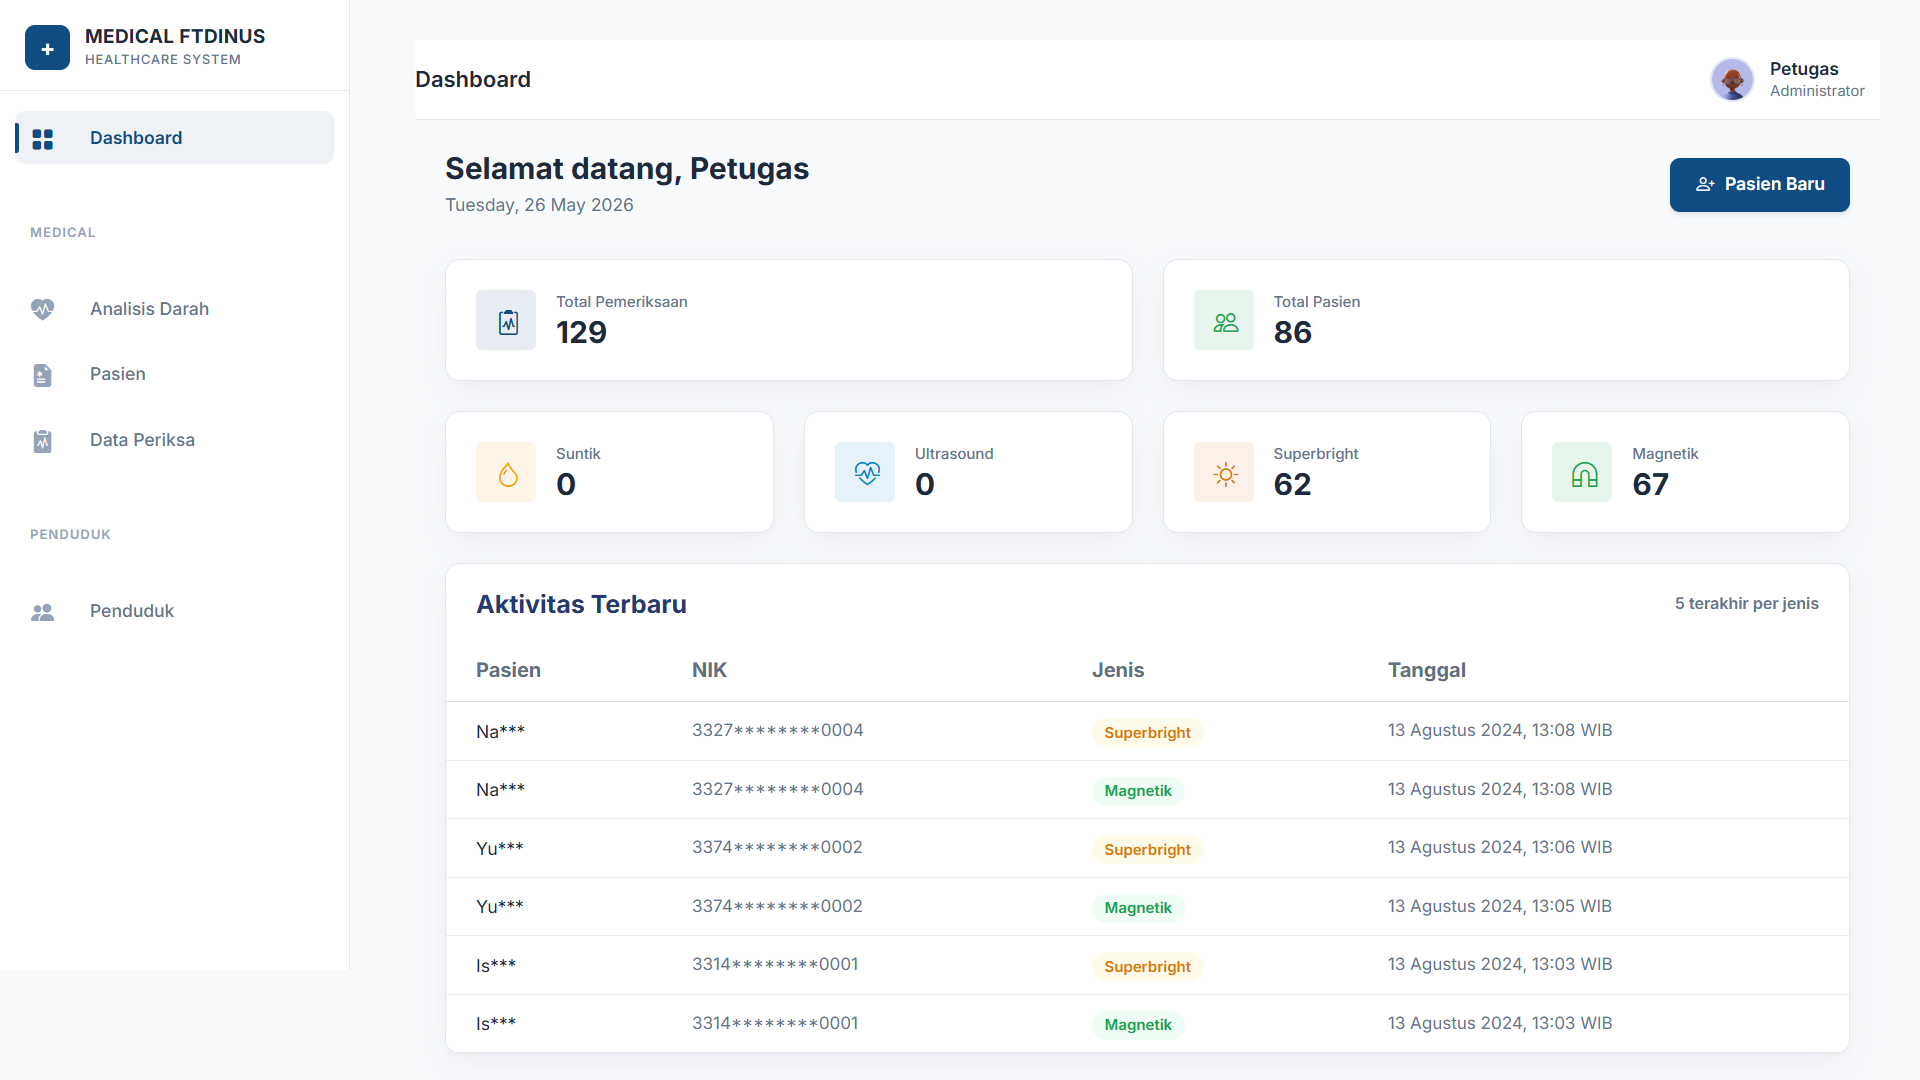
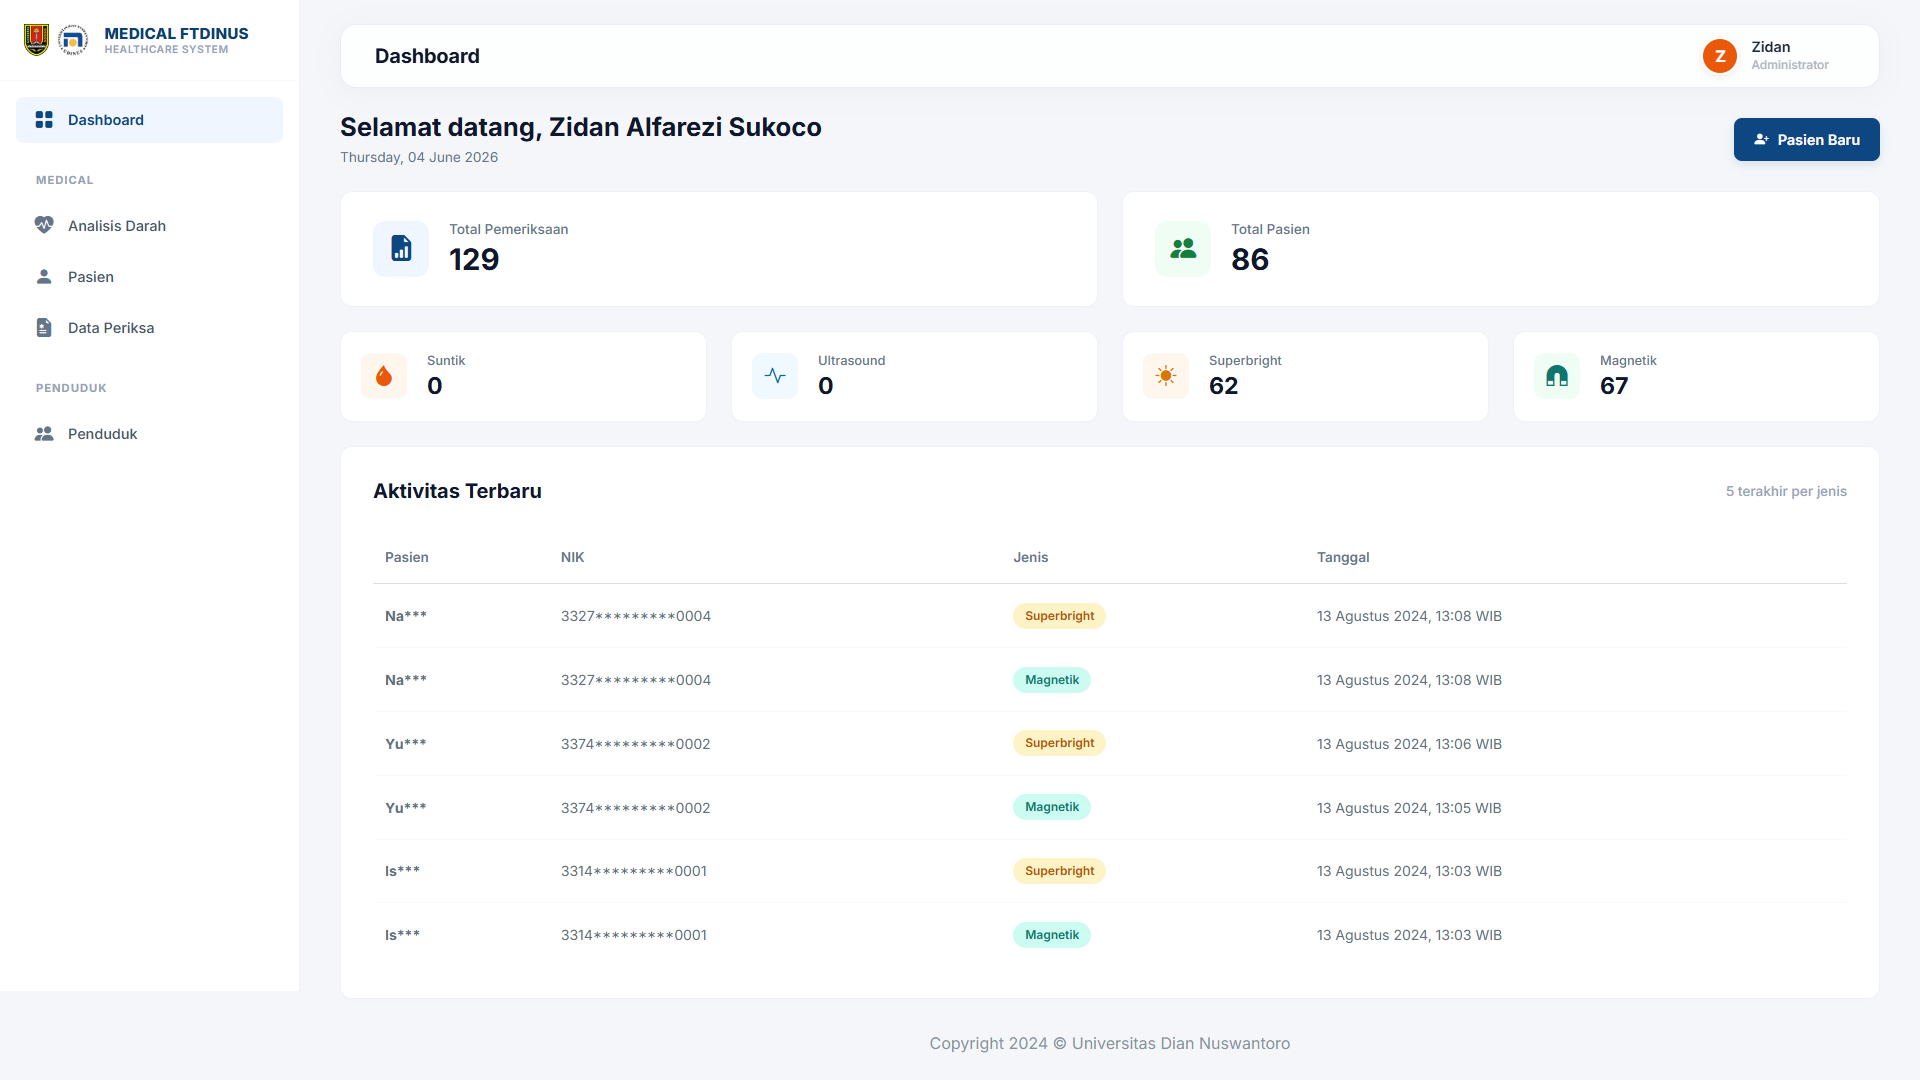
update portfolio

diff --git a/src/app/not-found.tsx b/src/app/not-found.tsx
@@ -12,11 +12,15 @@ export default function NotFound() {
             <div className="not-found">
                 <div className="not-found-card">
                     <div className="not-found-blob" aria-hidden="true" />
-                    <div className="not-found-blob secondary" aria-hidden="true" />
+                    <div
+                        className="not-found-blob secondary"
+                        aria-hidden="true"
+                    />
                     <div className="not-found-code">404</div>
                     <h1 className="not-found-title">Page not found</h1>
                     <p className="not-found-desc">
-                        The page you&apos;re looking for doesn&apos;t exist or has been moved.
+                        The page you&apos;re looking for doesn&apos;t exist or
+                        has been moved.
                     </p>
                     <Link href="/" className="not-found-btn">
                         <FontAwesomeIcon icon={faArrowLeft} />

diff --git a/src/lib/projects.ts b/src/lib/projects.ts
@@ -52,6 +52,7 @@ export const projects: Project[] = [
             '/assets/images/projects/project-medical-login.png',
             '/assets/images/projects/project-medical-dashboard.png',
             '/assets/images/projects/project-medical-view-pasien.png',
+            '/assets/images/projects/project-medical-data-periksa.png',
         ],
         title: 'Medical Checkup FT',
         type: 'Team',
@@ -268,8 +269,8 @@ export const projects: Project[] = [
     },
     {
         id: 'kireikies',
-        image: '/assets/images/projects/project-cookies.png',
-        gallery: ['/assets/images/projects/project-cookies.png'],
+        image: '/assets/images/projects/project-kireikies-menu.png',
+        gallery: ['/assets/images/projects/project-kireikies-menu.png'],
         title: 'Kireikies Cookies Website',
         type: 'Freelance',
         privacy: 'Public',
